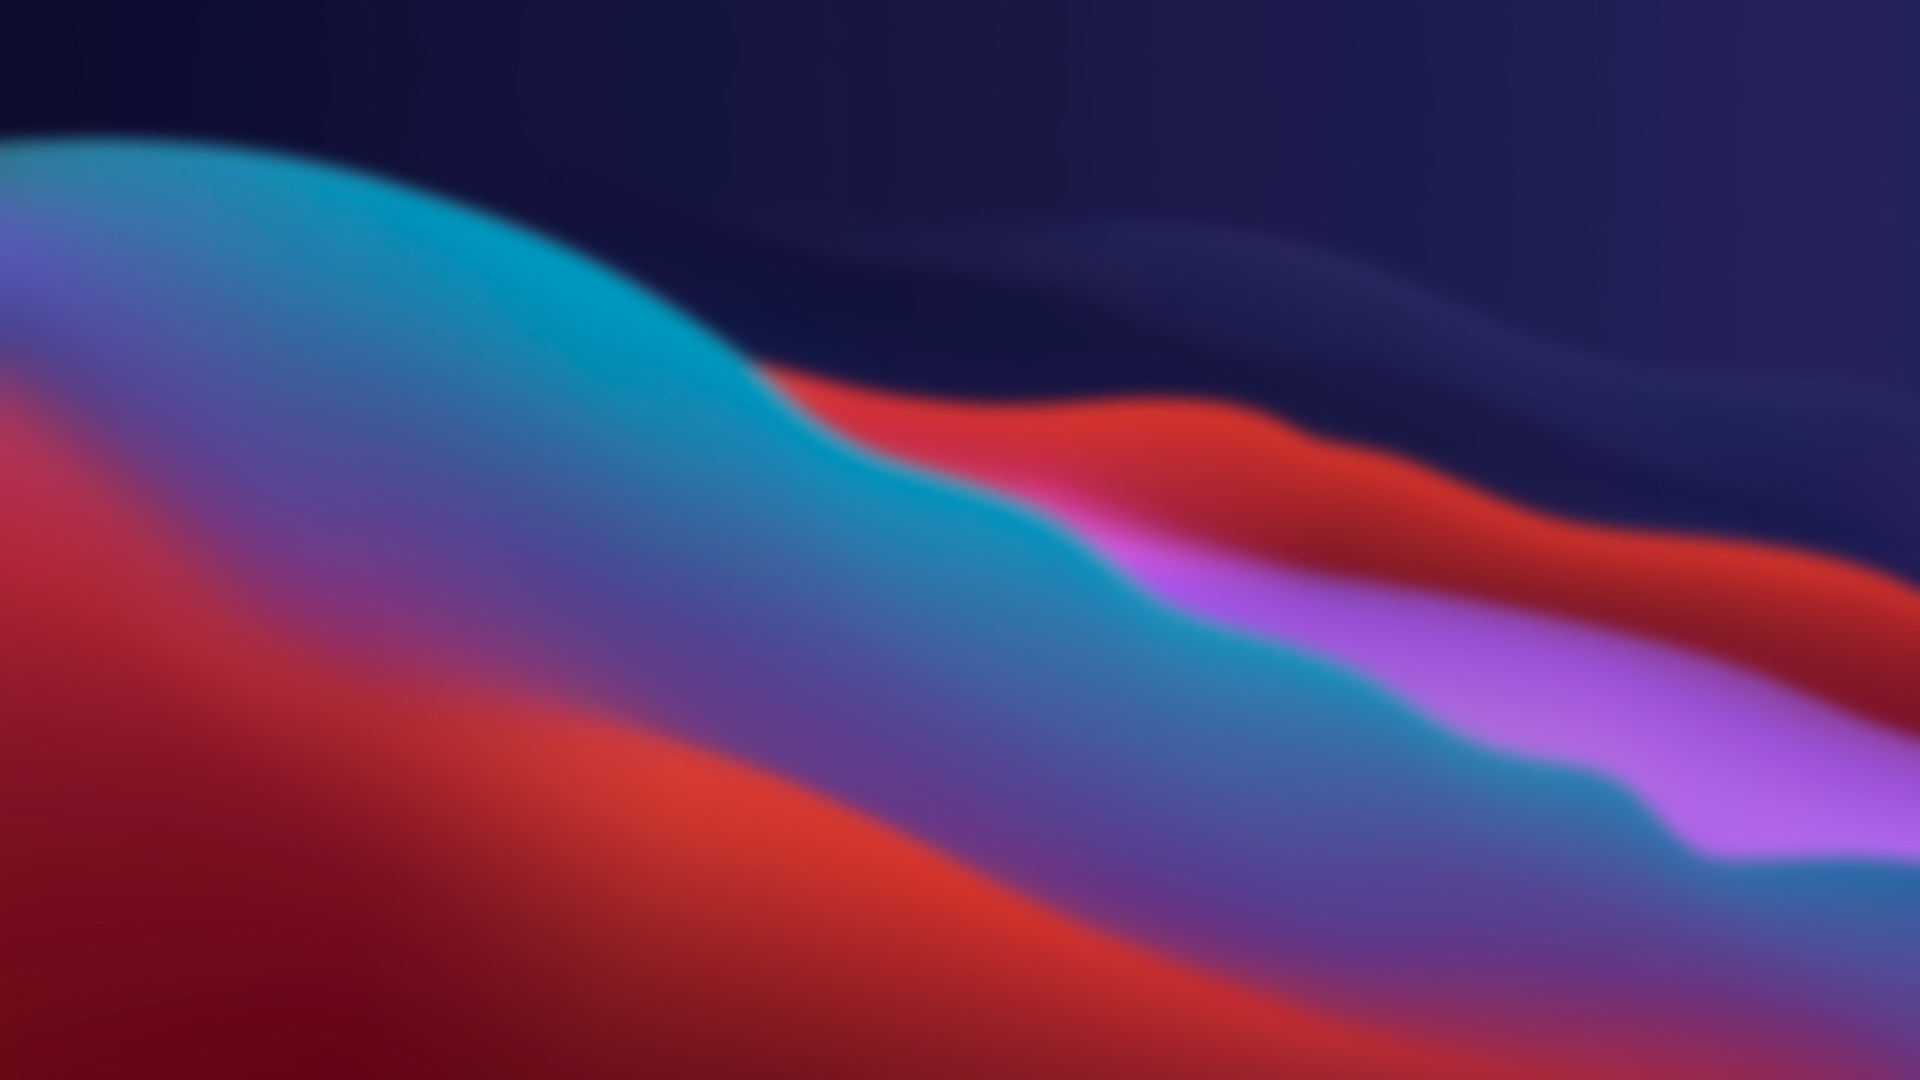
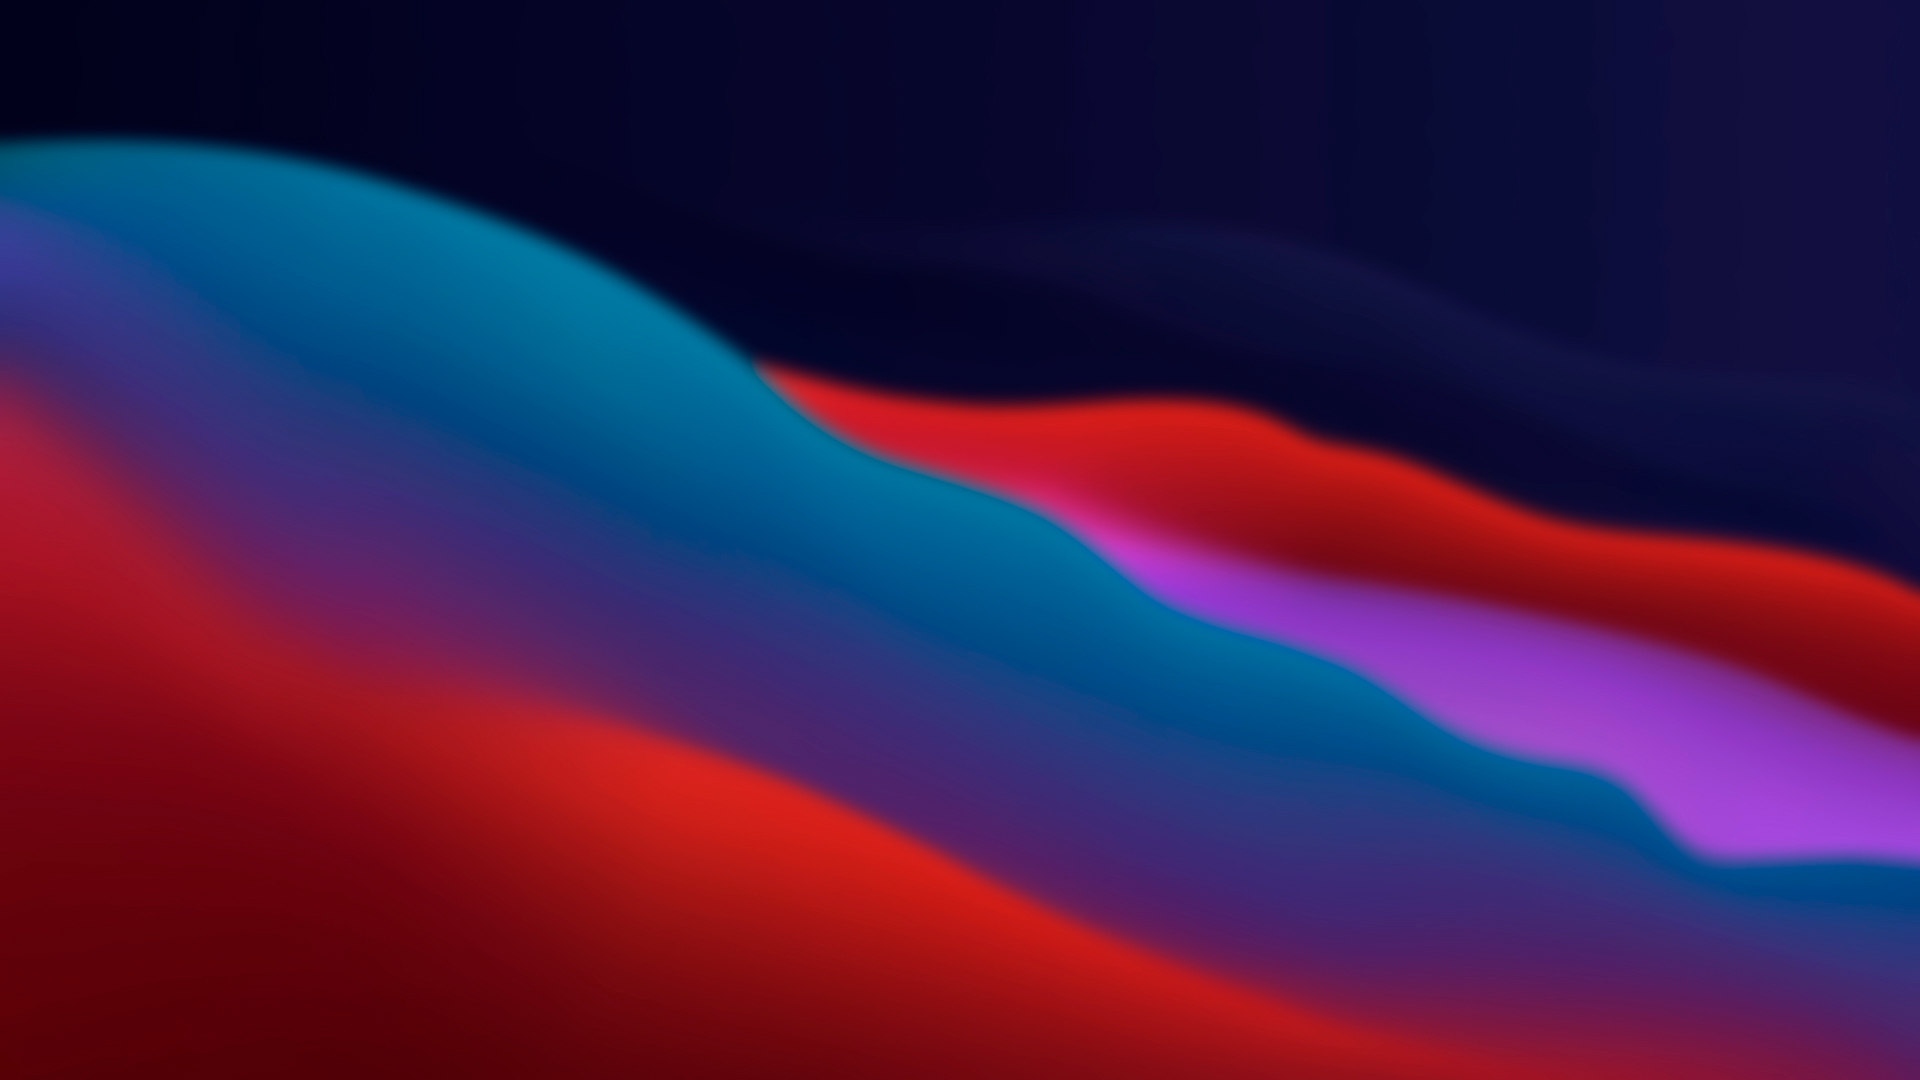
Code refactoring

diff --git a/src/views/ProfilePage/EditExtension/EditExtension.js b/src/views/ProfilePage/EditExtension/EditExtension.js
@@ -1,15 +1,7 @@
-import React, { useContext, useState, useEffect } from 'react';
+import React, { useState, useEffect } from 'react';
 
 import { useNavigate, useParams } from 'react-router';
 
-
-import AppContext from '../../../providers/AppContext';
-import {
-  ref as storageRef,
-  uploadBytes,
-  getDownloadURL,
-} from 'firebase/storage';
-import { storage } from '../../../config/firebase-config';
 
 import { Container, Divider } from '@mui/material';
 
@@ -26,15 +18,12 @@ import TextField from '@mui/material/TextField';
 import '../../Upload/Upload.css'
 
 import {
-  createExtension,
   getAllExtensions,
   getExtensionById,
   updateExtensionInfo
 } from '../../../services/extensions.service';
-import { NavLink } from 'react-router-dom';
 
 function EditExtension() {
-  const { user, userData, setContext } = useContext(AppContext);
   const navigate = useNavigate();
 
   const [error, setError] = useState(false);
@@ -45,10 +34,6 @@ function EditExtension() {
   const [currentExtension, setCurrentExtension] = useState({});
   const { id } = useParams();
 
-
-
-  // const [extension, setExtension] = useState('')
-
   useEffect(() => {
     getExtensionById(id).then((ext) => {
       setCurrentExtension(ext);
@@ -57,11 +42,6 @@ function EditExtension() {
 
     
   },[])
-
-
-  console.log(uploadInfo)
-
-
 
   const validateData = async () => {
     if (!uploadInfo.category) {

diff --git a/src/components/Main/Main.jsx b/src/components/Main/Main.jsx
@@ -77,9 +77,7 @@ const Main = () => {
                       key={ext.id}
                       name={ext.title}
                       logo={ext.logo}
-                      author={ext.author}
                       category={ext.category}
-                      rating={3.8}
                       downloadLink={ext.downloadLink}
                       extId={ext.id}
                     />
@@ -102,9 +100,7 @@ const Main = () => {
                       key={ext.id}
                       name={ext.title}
                       logo={ext.logo}
-                      author={ext.author}
                       category={ext.category}
-                      rating={3.8}
                       downloadLink={ext.downloadLink}
                       extId={ext.id}
                     />
@@ -127,9 +123,7 @@ const Main = () => {
                       key={ext.id}
                       name={ext.title}
                       logo={ext.logo}
-                      author={ext.author}
                       category={ext.category}
-                      rating={3.8}
                       downloadLink={ext.downloadLink}
                       extId={ext.id}
                     />

diff --git a/src/App.js b/src/App.js
@@ -1,6 +1,6 @@
 import './App.css';
 import React from 'react';
-import { useState, useContext, useEffect } from 'react';
+import { useState, useEffect } from 'react';
 import { BrowserRouter, Routes, Route } from 'react-router-dom';
 
 import { useAuthState } from 'react-firebase-hooks/auth';
@@ -8,7 +8,6 @@ import { auth } from './config/firebase-config';
 import { getUserData } from './services/users.service';
 import AppContext from './providers/AppContext';
 
-import Header from './components/Header/Header';
 import Main from './components/Main/Main';
 import ScrollTop from './components/ScrollTop/ScrollTop';
 import ScrollPage from './components/ScrollTop/ScrollPage';
@@ -16,7 +15,6 @@ import ScrollPage from './components/ScrollTop/ScrollPage';
 import SingleExtension from './views/SingleExtensionPage/SingleExtension';
 import ProfilePage from './views/ProfilePage/ProfilePage';
 import Register from './views/Register/Register';
-import AlertUser from './views/Register/AlertUser';
 import Login from './views/Login/Login';
 import Category from './views/SingleCategory/Category';
 import Upload from './views/Upload/Upload';

diff --git a/src/components/Header/Header.jsx b/src/components/Header/Header.jsx
@@ -1,11 +1,12 @@
 import React from 'react';
 import './Header.css';
 import { useState, useContext, useEffect } from 'react';
-import { Grid } from '@mui/material';
 import { NavLink } from 'react-router-dom';
-import AppContext from '../../providers/AppContext';
 import { useNavigate } from 'react-router';
+import AppContext from '../../providers/AppContext';
+import { logoutUser } from '../../services/auth.service';
 
+import { Grid } from '@mui/material';
 import LoginIcon from '@mui/icons-material/Login';
 import VpnKeyIcon from '@mui/icons-material/VpnKey';
 import CloudUploadIcon from '@mui/icons-material/CloudUpload';
@@ -19,7 +20,6 @@ import ListItemIcon from '@mui/material/ListItemIcon';
 import Divider from '@mui/material/Divider';
 import Logout from '@mui/icons-material/Logout';
 
-import { logoutUser } from '../../services/auth.service';
 
 import avatar from '../../assets/avatar.jpg';
 import vscodelogo from '../../assets/vscodelogo.png';

diff --git a/src/components/Footer/Footer.jsx b/src/components/Footer/Footer.jsx
@@ -1,17 +1,16 @@
 import React from 'react';
-import './Footer.css';
+import { NavLink } from 'react-router-dom';
 
 import Grid from '@mui/material/Grid';
 import { Divider } from '@mui/material';
-
 import InfoIcon from '@mui/icons-material/Info';
 import ContactPageIcon from '@mui/icons-material/ContactPage';
 import RecommendIcon from '@mui/icons-material/Recommend';
-
 import InstagramIcon from '@mui/icons-material/Instagram';
 import FacebookIcon from '@mui/icons-material/Facebook';
 import LinkedInIcon from '@mui/icons-material/LinkedIn';
-import { NavLink } from 'react-router-dom';
+
+import './Footer.css';
 
 const Footer = () => {
   return (

diff --git a/src/styles/styles.js b/src/styles/styles.js
@@ -1,3 +1,6 @@
+import { styled } from '@mui/material/styles';
+import Paper from '@mui/material/Paper';
+
 export const containerStyle = {
   height: 'auto',
   marginTop: '50px',
@@ -134,3 +137,10 @@ export const notificationLegendContainer = {
   gap: '0.25em',
   color: 'white',
 };
+
+export const Item = styled(Paper)(({ theme }) => ({
+  backgroundColor: theme.palette.mode === 'dark' ? '#1A2027' : '#fff',
+  ...theme.typography.body2,
+  padding: theme.spacing(1),
+  color: theme.palette.text.primary,
+}));

diff --git a/src/components/Categories/ListCategory.jsx b/src/components/Categories/ListCategory.jsx
@@ -1,13 +1,7 @@
 import React from 'react';
-import { styled } from '@mui/material/styles';
-import Paper from '@mui/material/Paper';
 
-const Item = styled(Paper)(({ theme }) => ({
-  backgroundColor: theme.palette.mode === 'dark' ? '#1A2027' : '#fff',
-  ...theme.typography.body2,
-  padding: theme.spacing(1),
-  color: theme.palette.text.primary,
-}));
+import { Item } from '../../styles/styles.js'
+
 
 const ListCategory = ({ name }) => {
   return (

diff --git a/src/views/SingleExtensionPage/SingleExtension.js b/src/views/SingleExtensionPage/SingleExtension.js
@@ -42,9 +42,9 @@ function SingleExtension() {
 
   const { id } = useParams();
 
-  const { user, userData, setContext } = useContext(AppContext);
+  const {userData } = useContext(AppContext);
 
-  let headersList = {
+  const headersList = {
     Accept: 'application/vnd.github.v3+json',
     'User-Agent': 'Thunder Client (https://www.thunderclient.com)',
     Authorization: 'Bearer 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',

diff --git a/src/views/ProfilePage/Downloads/Downloads.js b/src/views/ProfilePage/Downloads/Downloads.js
@@ -10,9 +10,7 @@ const Downloads = ({ userDownloads }) => {
           key={download.id}
           name={download.title}
           logo={download.logo}
-          author={download.author}
           category={download.category}
-          rating={3.8}
           downloadLink={download.downloadLink}
           extId={download.id}
         />

diff --git a/src/index.css b/src/index.css
@@ -12,7 +12,7 @@ body {
 
   background-color: rgb(248, 248, 248);
 
-  background: url(assets/background_blured4.jpg) center / cover no-repeat fixed;
+  background: url(assets/background_blured.jpg) center / cover no-repeat fixed;
   background-position: 25% 30%;
   min-height: 100vh;
 }

diff --git a/src/services/extensions.service.js b/src/services/extensions.service.js
@@ -80,7 +80,7 @@ export const updateExtensionInfo = (id, newInfo) => {
     );
 
     if (
-      extension.logo == newInfo.logo &&
+      extension.logo === newInfo.logo &&
       extension.downloadLink === newInfo.downloadLink
     ) {
       return update(ref(db), {

diff --git a/src/components/Categories/Categories.css b/src/components/Categories/Categories.css
@@ -1,11 +1,8 @@
 .category-item {
   width: auto;
   height: auto;
-
   border: none;
-
   font-family: 'Inter', sans-serif !important;
-
   transition: background-color 0.25s !important;
 }
 
